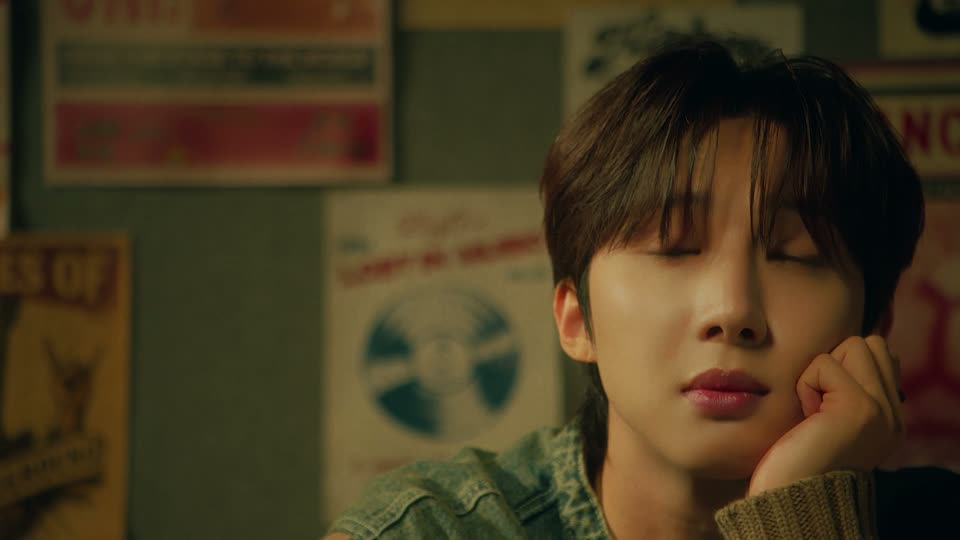
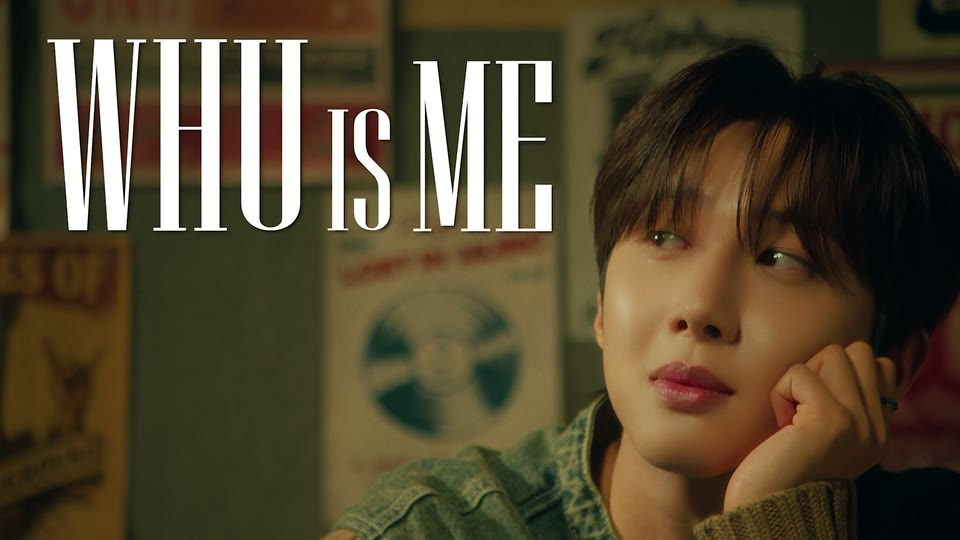
About 조명이 위에서 잘리지 않게 범위 조정, 후이 썸네일을 제목 글자 뜬 장면으로

diff --git a/index.html b/index.html
@@ -24,7 +24,7 @@
 <link rel="preconnect" href="https://fonts.googleapis.com">
 <link rel="preconnect" href="https://fonts.gstatic.com" crossorigin>
 <link rel="stylesheet" href="https://fonts.googleapis.com/css2?family=EB+Garamond:wght@400;500&display=swap">
-<link rel="stylesheet" href="styles.css?v=s5">
+<link rel="stylesheet" href="styles.css?v=s6">
 <script>(function(d){d.className+=' js pt-enter';setTimeout(function(){d.classList.remove('pt-enter')},1500)})(document.documentElement);</script>
 </head>
 <body data-page="home">
@@ -178,7 +178,7 @@
   </div>
 </footer>
 
-<script src="works.js?v=r6"></script>
+<script src="works.js?v=r7"></script>
 <script src="app.js?v=p9"></script>
 <script src="work-detail.js?v=r7"></script>
 <script src="dither.js?v=r1"></script>

diff --git a/styles.css b/styles.css
@@ -767,3 +767,8 @@ body::after{content:'';position:fixed;inset:-50%;z-index:400;pointer-events:none
 .ab .stage::after{opacity:calc(.8 + var(--le) * .5);transform:translateX(calc(var(--lx) * -6%)) scaleX(calc(1 + var(--le) * .15));}
 /* 꽃 영상도 검정은 투명처럼: 뒤 조명이 그대로 비친다 */
 .ab .stage__vid{mix-blend-mode:screen;background:transparent;}
+/* 조명이 About 칸 위로 넘어가 잘려 보이지 않게: 위아래로는 칸 안에서 다 사라지게 */
+.ab .stage::before{inset:-48% -110%;
+  background:
+    radial-gradient(30% 40% at 50% 22%,rgba(190,198,212,.08) 0%,transparent 72%),
+    radial-gradient(46% 50% at 50% 50%,rgba(170,178,194,.26) 0%,rgba(120,128,144,.13) 30%,rgba(72,77,88,.05) 56%,transparent 76%);}

diff --git a/contact.html b/contact.html
@@ -20,7 +20,7 @@
 <link rel="icon" type="image/png" sizes="32x32" href="assets/favicon-32.png">
 <link rel="apple-touch-icon" href="assets/apple-touch-icon.png">
 <link rel="stylesheet" href="https://cdn.jsdelivr.net/gh/orioncactus/pretendard@v1.3.9/dist/web/variable/pretendardvariable-dynamic-subset.min.css">
-<link rel="stylesheet" href="styles.css?v=s5">
+<link rel="stylesheet" href="styles.css?v=s6">
 <script>(function(d){d.className+=' js pt-enter';setTimeout(function(){d.classList.remove('pt-enter')},1500)})(document.documentElement);</script>
 </head>
 <body data-page="contact">

diff --git a/about.html b/about.html
@@ -23,7 +23,7 @@
 <link rel="preconnect" href="https://fonts.googleapis.com">
 <link rel="preconnect" href="https://fonts.gstatic.com" crossorigin>
 <link rel="stylesheet" href="https://fonts.googleapis.com/css2?family=EB+Garamond:wght@400;500&display=swap">
-<link rel="stylesheet" href="styles.css?v=s5">
+<link rel="stylesheet" href="styles.css?v=s6">
 <script>(function(d){d.className+=' js pt-enter';setTimeout(function(){d.classList.remove('pt-enter')},1500)})(document.documentElement);</script>
 </head>
 <body data-page="about">

diff --git a/works.js b/works.js
@@ -150,7 +150,7 @@ window.IDDOT_WORKS = {
     title: 'HUI Fan Concert VCR',
     artist: 'HUI',
     category: 'M/V · Fan Concert VCR',
-    cats: ['mv'], selected: true, poster: 'assets/hui-fan-concert-vcr.jpg', preview: 'assets/hui-fan-concert-vcr-preview.mp4',
+    cats: ['mv'], selected: true, poster: 'assets/hui-fan-concert-vcr.jpg?v=2', preview: 'assets/hui-fan-concert-vcr-preview.mp4',
     video: 'assets/hui-fan-concert-vcr-full.mp4',
     client: '',
     role: 'DIRECTOR / EDIT',
